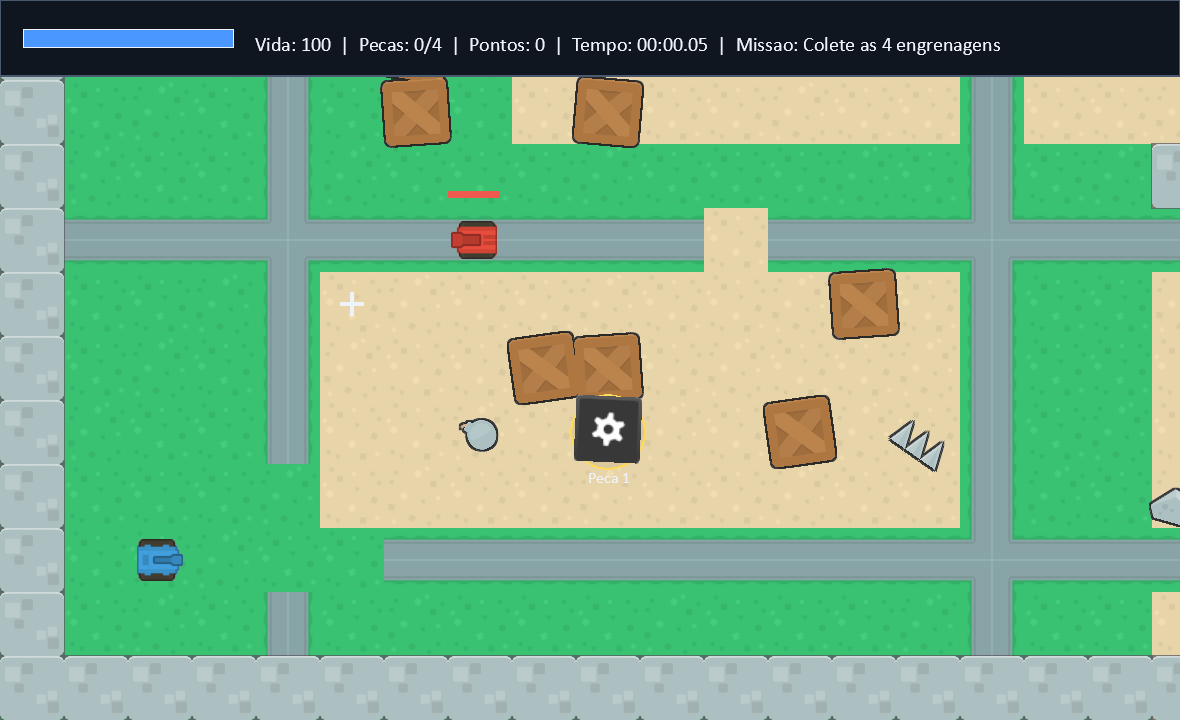
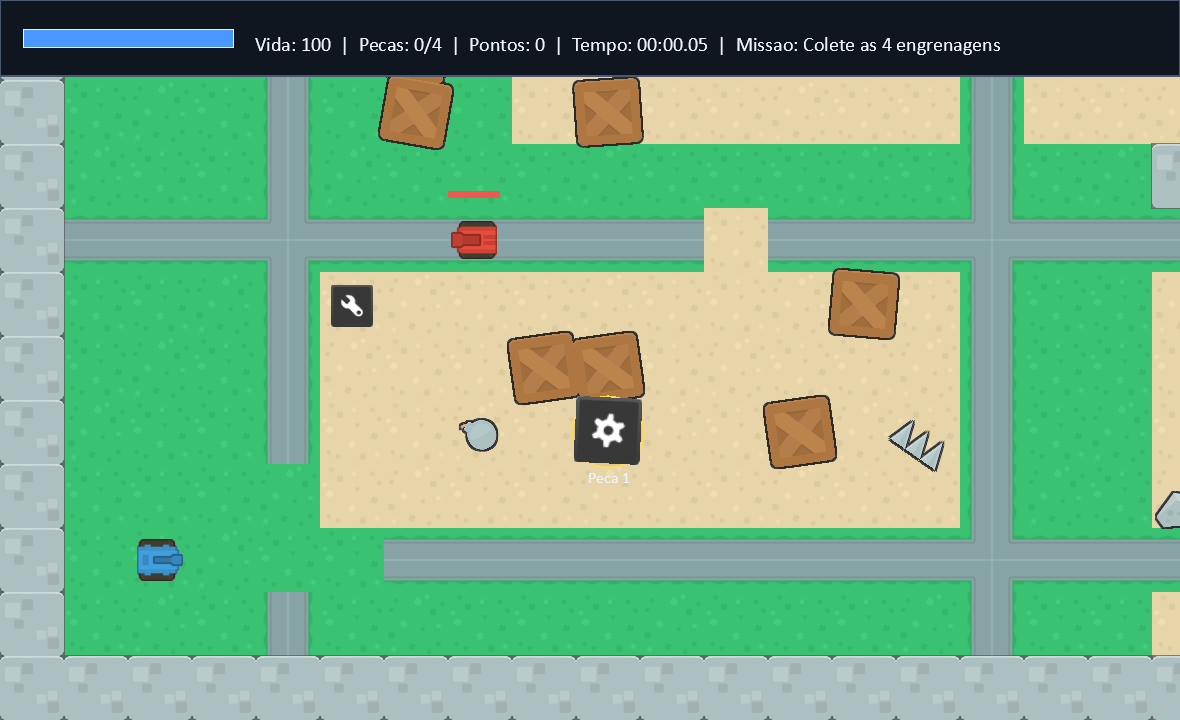
mais

diff --git a/main.py b/main.py
@@ -79,7 +79,7 @@ TEXTURA_CAIXA = caminho_asset("images/tiles/boxCrate_double.png")
 TEXTURA_ROCHA = caminho_asset("images/tiles/rock.png")
 TEXTURA_BOMBA = caminho_asset("images/tiles/bomb.png")
 TEXTURA_SPIKES = caminho_asset("images/tiles/spikes.png")
-TEXTURA_VIDA = caminho_asset("images/items/gemGreen.png")
+TEXTURA_VIDA = caminho_asset("onscreen_controls/shaded_dark/wrench.png")
 TEXTURA_ENGRENAGEM = caminho_asset("onscreen_controls/shaded_dark/gear.png")
 TEXTURA_SAIDA = caminho_asset("images/items/flagGreen2.png")
 TEXTURA_MENU = caminho_asset("images/menu/tank_battle_menu.png")
@@ -541,8 +541,6 @@ class KitVida:
         if self.ativo:
             self.sprite.center_y = self.y + math.sin(self.pulso) * 2
             desenhar_sprite_solto(self.sprite)
-            arcade.draw_line(self.x - 12, self.y, self.x + 12, self.y, BRANCO, 4)
-            arcade.draw_line(self.x, self.y - 12, self.x, self.y + 12, BRANCO, 4)
         else:
             return
 

diff --git a/roteiro_apresentacao.md b/roteiro_apresentacao.md
@@ -25,7 +25,7 @@ A funcao `criar_matriz_mapa` monta uma matriz de caracteres. Cada caractere repr
 - `M` vira muro com colisao;
 - `C` vira caixa com colisao;
 - `B` vira rocha/barreira com colisao;
-- `H` vira kit de vida;
+- `H` vira kit de reparo/vida;
 - `1`, `2`, `3`, `4` viram engrenagens;
 - `V`, `A`, `U` viram inimigos diferentes;
 - `E` vira area de extracao.
@@ -65,9 +65,9 @@ Exemplo de explicacao:
 
 > Se o jogador esta perto e o comandante tem vida, atacar fica mais forte. Se o comandante esta com pouca vida e existe kit perto, buscar vida pode vencer.
 
-## 7. Kits de vida compartilhados
+## 7. Kits de reparo compartilhados
 
-Os kits verdes podem ser usados pelo jogador e pelos inimigos. Se alguem encosta no kit com vida abaixo do maximo, recupera vida e o kit entra em respawn.
+Os kits com icone de chave de boca podem ser usados pelo jogador e pelos inimigos. Como todos sao tanques, a recuperacao de vida representa um reparo. Se alguem encosta no kit com vida abaixo do maximo, recupera vida e o kit entra em respawn.
 
 ## 8. Level Design
 

diff --git a/README.md b/README.md
@@ -87,7 +87,7 @@ O mapa e criado por uma matriz de caracteres:
 - `C`: caixa
 - `B`: rocha/barreira
 - `P`: jogador
-- `H`: kit de vida
+- `H`: kit de reparo/vida
 - `1`, `2`, `3`, `4`: engrenagens
 - `V`: guarda com campo de visao
 - `A`: cacador com A*
@@ -103,7 +103,7 @@ Essas imagens foram copiadas dos recursos padrao da biblioteca Arcade:
 - tanques completos: `images/topdown_tanks`
 - ruas, grama e areia: `images/topdown_tanks`
 - caixas, muros, rochas, bombas e espinhos: `images/tiles`
-- vida: `images/items/gemGreen.png`
+- vida/reparo: `onscreen_controls/shaded_dark/wrench.png`
 - engrenagem: `onscreen_controls/shaded_dark/gear.png`
 - bandeira de extracao: `images/items/flagGreen2.png`
 